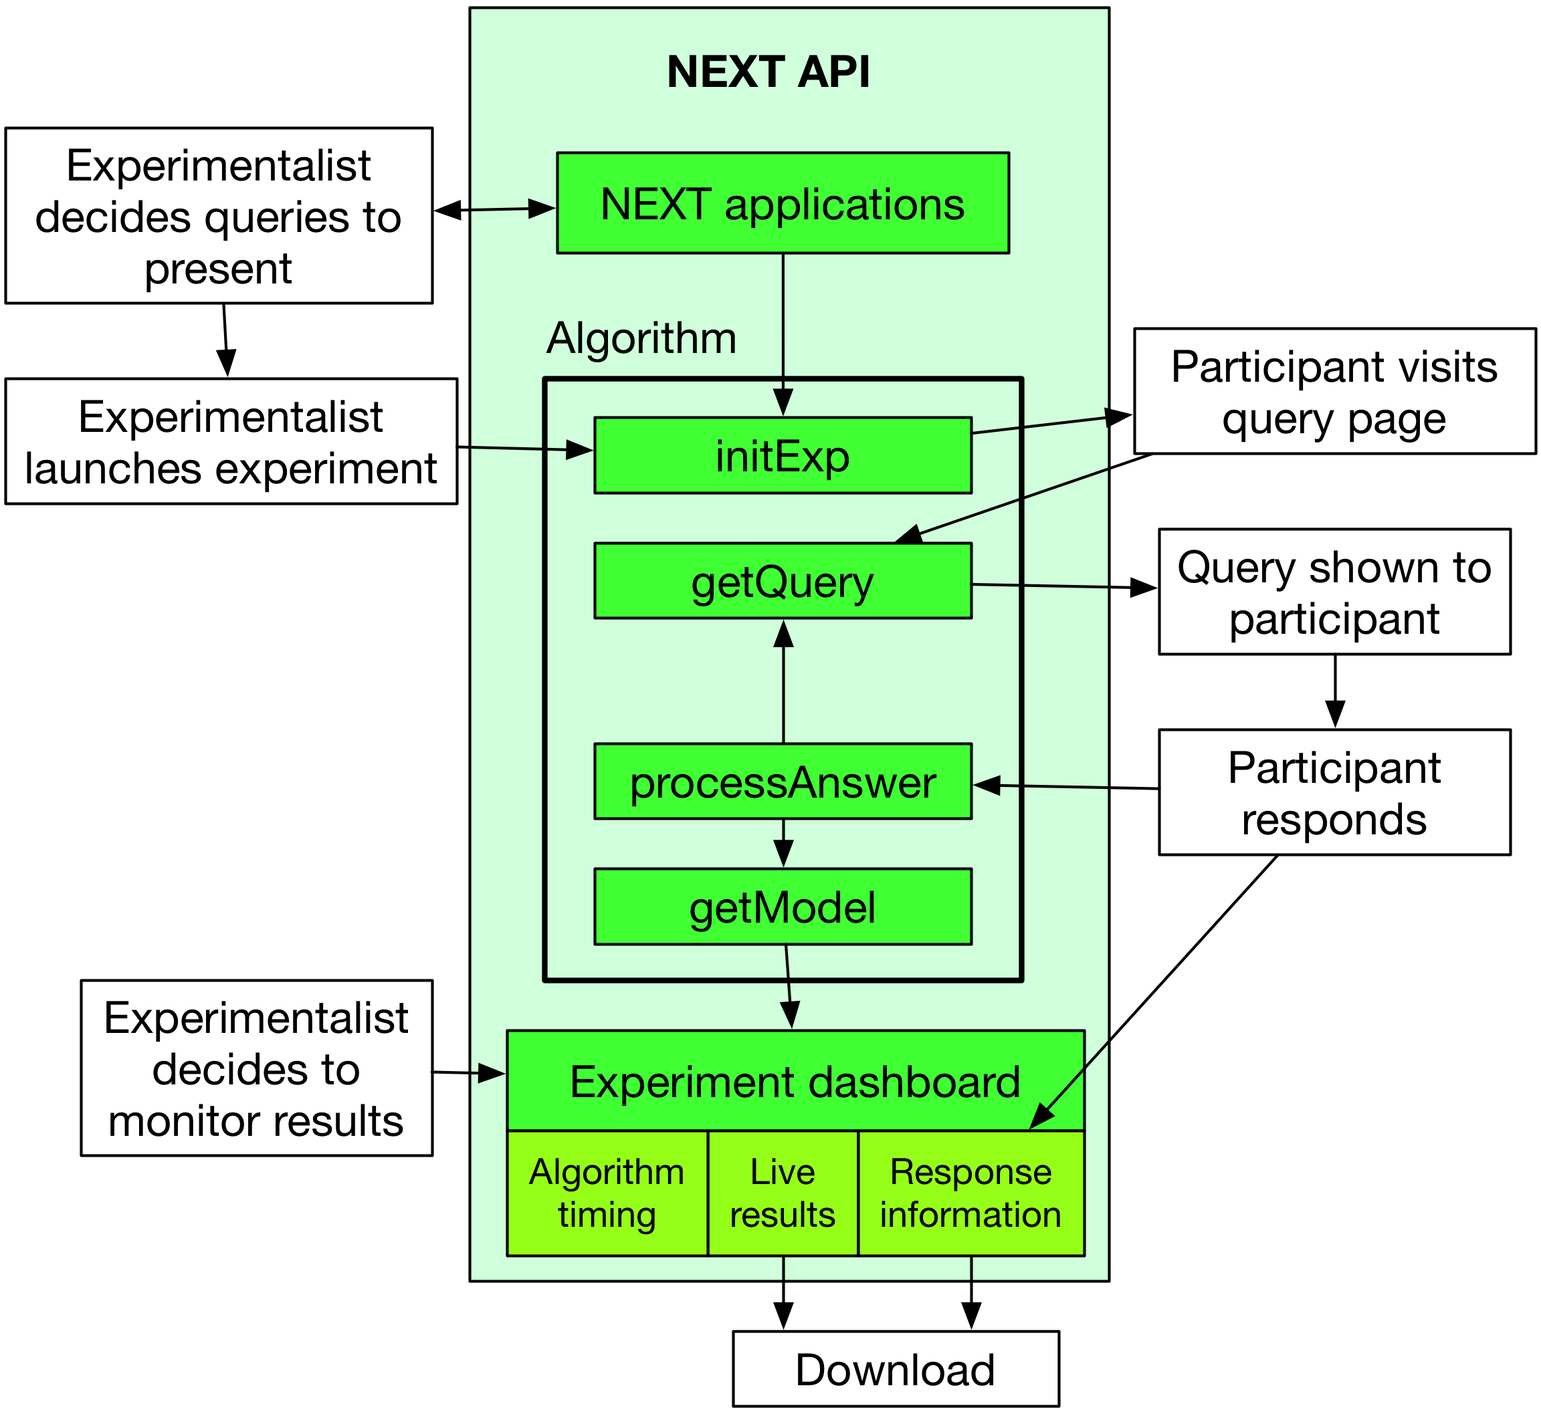
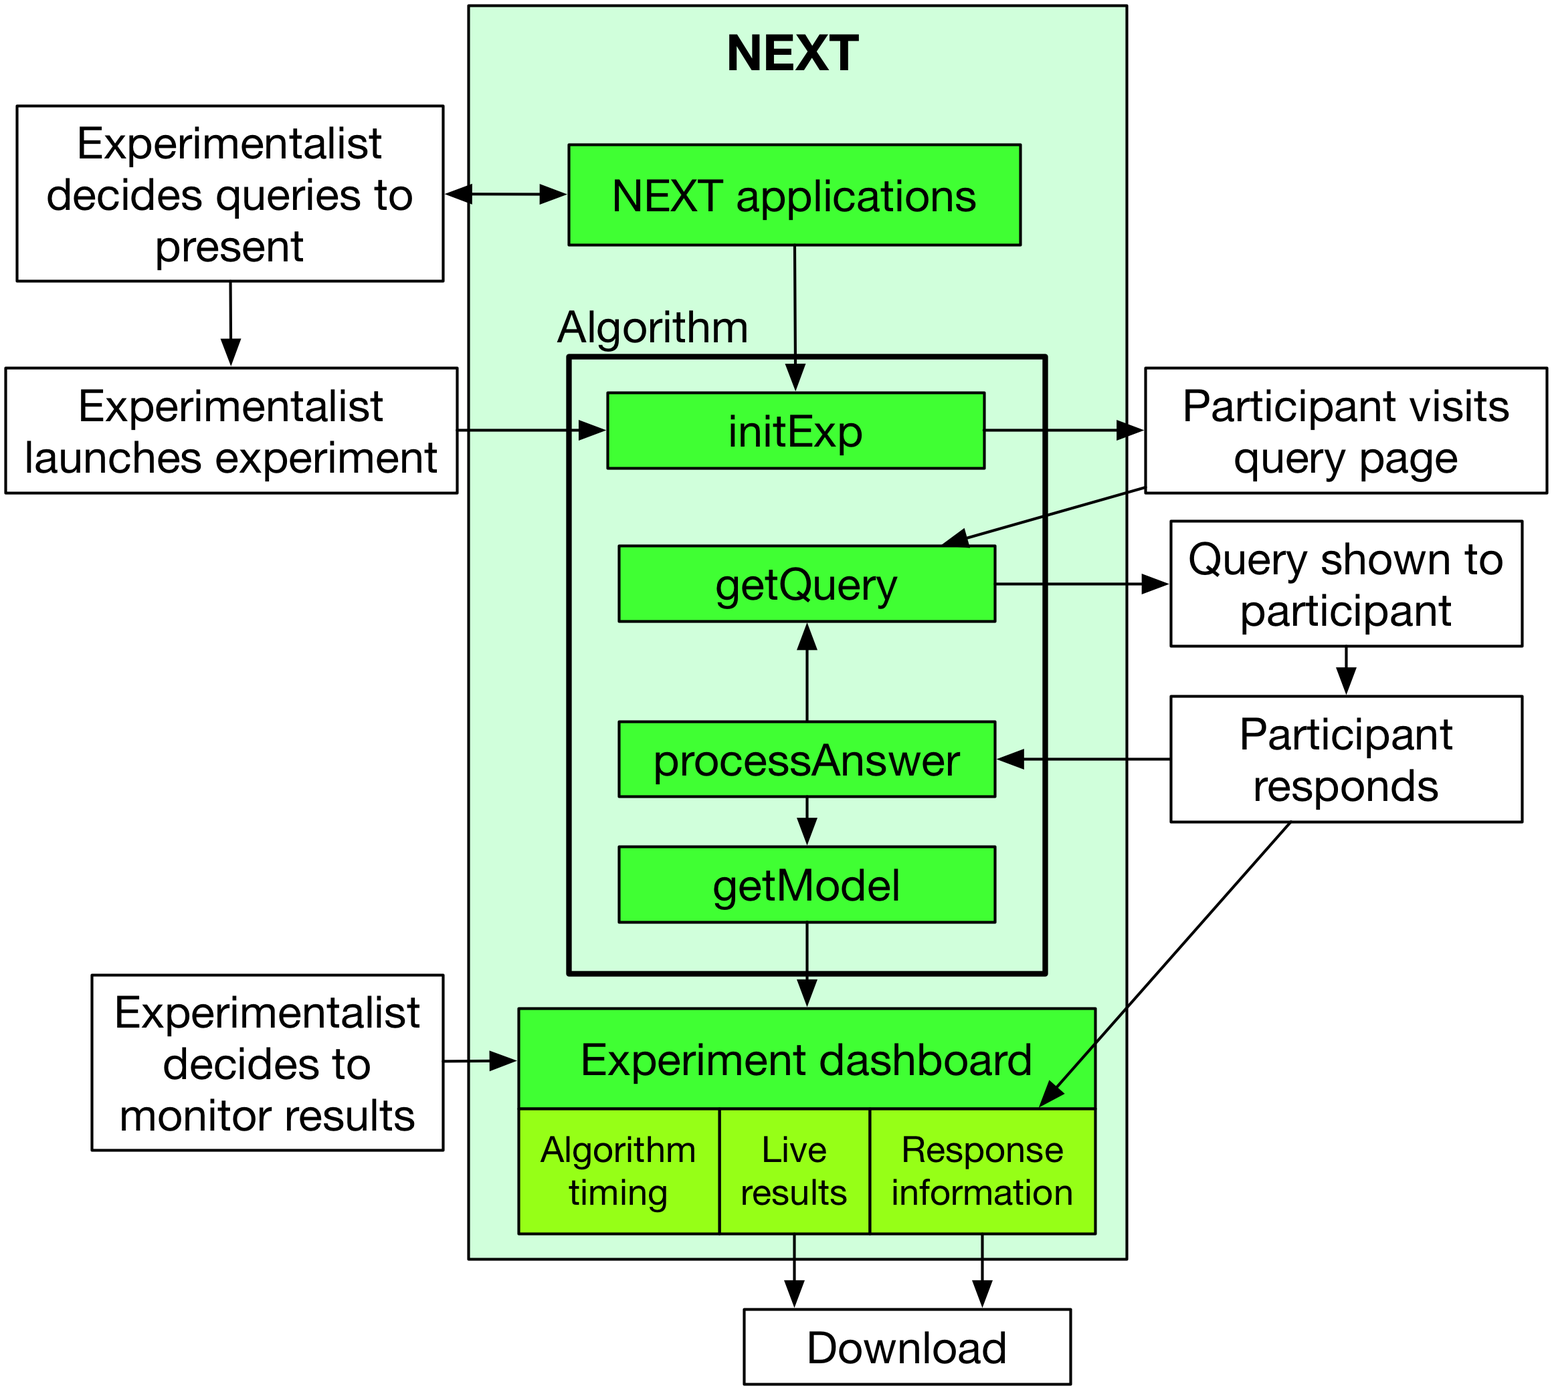
Address sbenthall’s comments

Changed region(s): [[0.0, 0.0, 1.0, 1.0]]

diff --git a/papers/scott_sievert/next.rst b/papers/scott_sievert/next.rst
@@ -110,31 +110,32 @@ Introduction
 The ubiquitousness of the Internet has enabled crowdsourcing, which gives fast
 access to unprecedented amounts of human judgment data.  Tapping into the
 "wisdom of the crowd" includes scenarios where questions are asked about simple
-cognitive tasks. For example, users may be asked to determine the locations in
-an image that contain a certain object (e.g., "select all image locations that
-contain buildings") to protect against internet bots. This task is trivial for
-a human but difficult a computer (or internet bots).
+cognitive tasks, and crowdsourcing has enabled the collection of many such
+judgments. For example, crowdsourcing participants have been asked to
+determine the locations in an image that contain a certain object (e.g.,
+"select all image locations that contain buildings") on many different images
+:cite:`deng2009imagenet`.
 
-Crowdsourcing enables the collection of a large amount of data, which is
-necessary to extract complex results from simple human judgments. One such
-example finds some measure of shoe similarity between different shoes
-:cite:`heim2015active`. A complex model is required given a low working memory
-constraint. Many responses are needed for this complex model, even though a
-small fraction of the available shoes are used (less that 0.2%).
+.. comment
+    Crowdsourcing enables the collection of many simple human judgments. Uses
+    include finding the best item in some set :cite:`audibert2010best` or finding
+    some measure of similarity between different objects :cite:`heim2015active`.
+    Typically, many responses are required as judgments must be simple for humans
+    to answer.
 
 The cost of collecting crowdsourcing responses can be significant – especially
 in problem domains where expert input is required. Minimizing the number of
-queries required has large practical benefits: higher accuracy with
-fewer responses, and ultimately a shorter time to a particular result.  To
-obtain these benefits, a fundamental change in the method of data collection is
+queries required has large practical benefits: higher accuracy with fewer
+responses, and ultimately a shorter time to a particular result.  To obtain
+these benefits, a fundamental change in the method of data collection is
 required.
 
-At UW–Madison, we have developed a crowdsourcing data collection and analysis
-tool that efficiently collects crowdsourced data :cite:`jamieson2015next`. In
-this paper, we will explain the fundamental challenges that this system
-addresses before explaining the system usage and API. We will mention primary
-design goals of NEXT, which include experiment monitoring and being accessible
-to researchers.
+At UW–Madison, we have developed a crowdsourcing data collection tool that
+efficiently collects crowdsourced data via "adaptive" sampling algorithms
+:cite:`jamieson2015next`. In this paper, we will focus on the use of NEXT
+rather than the applications of NEXT and their results. We will address the
+interface NEXT presents to the experimentalist and algorithm designer, after
+mentioning the fundamental problem NEXT addresses and it's applications.
 
 Problem statement
 -----------------
@@ -168,35 +169,48 @@ Problem statement
     adaptive algorithms to reach a particular quality (e.g., classification
     accuracy). :label:`adaptive-gains`
 
-The standard machine learning workflow is to obtain human labels, then to
-produce a model that predicts labels. An example of this workflow is with the
-popular ImageNet dataset :cite:`deng2009imagenet`: humans have provided
-millions of image labels, and there have been dozens of models to predict
-labels for unseen images :cite:`szegedy2015going, he2015delving,
+Supervised machine learning relies on human labels to help produce a model that
+predicts labels :cite:`kotsiantis2007supervised`. One example of this workflow
+is with the popular ImageNet dataset :cite:`deng2009imagenet`: humans have
+provided millions of image labels, and there have been dozens of models to
+predict labels for unseen images :cite:`szegedy2015going, he2015delving,
 simonyan2014very`.
 
 The collection of these data is `passive` and does not `adapt` to previous
 responses: previous responses does not effect which queries are presented.
-Adaptive data collection is a process which selects the most useful data as
-quickly as possible to help achieve some goal (e.g., classification accuracy).
+Adaptive data collection is a process which selects the most useful data (in
+some sense) as quickly as possible to help achieve some goal (e.g.,
+classification accuracy) :cite:`holland1992adaptation`.  Adaptive data
+collection is done by an adaptive sampling algorithm that chooses the next
+query to be labeled.
 
-Adaptive data collection naturally requires fewer responses to produce the
-same model as passive data collection: it's adapting to previous responses by
-choosing which query to present next. This is most useful as the problem size
-increases, or when there are many data to label (e.g., different sorting
-algorithms). Adaptive algorithms do not require more responses than passive
-algorithms :cite:`castro2005faster`. A clearer depiction of these gains is
-shown in Figure :ref:`adaptive-gains`.
+Adaptive data collection naturally requires fewer responses to produce the same
+model as passive data collection: it's adapting to previous responses by
+choosing which query to present next. This is most useful when many labels are
+needed, or as problem size increases. Adaptive algorithms do not require more
+responses than passive algorithms :cite:`castro2005faster`. A clearer depiction
+of these gains is shown in Figure :ref:`adaptive-gains`.
 
-Adaptively collecting large-scale datasets is challenging and time-consuming.
-As such, most experiments on adaptive sampling algorithms are simulations that
-use these passively collected datasets. These simulations do not address the
-practical issues faced in crowdsourcing: adaptive algorithm response time,
-human fatigue and differing label quality among humans.
+Applying adaptive data collection to crowdsourcing will reduce the number of
+samples required. The simple judgments humans can provide require many
+responses. A simple example is with using comparisons of two items to sort a
+list of :math:`n` items. An adaptive algorithm require :math:`O(n\log n)`
+comparisons on average while passive algorithms require :math:`O(n^2)`
+comparisons :cite:`hoare1962quicksort`.
 
+Adaptively collecting large-scale datasets is challenging and time-consuming,
+as mentioned below.  As such, most experiments on adaptive sampling algorithms
+are simulations that use these passively collected datasets. These simulations
+do not address the practical issues faced in crowdsourcing: adaptive algorithm
+response time, human fatigue and differing label quality among humans.
+
+The problem that needs to be solved is to allow arbitrary adaptive algorithms
+to collect crowdsourced data.
+
+An additional problem is the use of adaptive algorithms by experimentalists.
 Arguably, some of the deepest insights and greatest innovations have come
-through experimentation. This is only possible if adaptive data
-collection is easily accessible by both
+through experimentation. This is only possible if adaptive data collection is
+easily accessible by both
 
 1. Machine learning researchers, to test and deploy adaptive algorithms
 2. Experimentalists, to use and test adaptive algorithms in real-world applications
@@ -205,20 +219,19 @@ Easy use by both groups will enable feedback between experimentalists and
 machine learning researchers to improve adaptive data collection through
 crowdsourcing.
 
-
 Challenges
 ^^^^^^^^^^
 
 Adaptive data collection is not possible without access to previous responses,
 a fundamental change to data collection. This introduces human feedback: the
-most useful queries are selected by using the existing human labels. If a
-particular query has shown to be of little use, it doesn't make much sense to
-label the same query again.
+most useful queries are selected using previously recorded human labels by some
+adaptive algorithm. If a particular query has shown to be of little use, it
+doesn't make much sense to label the same query again.
 
 Adaptive algorithms use previous responses to ask questions, which means that
 they require
 
-* receiving and storing previous responses.
+* receiving and storing responses, and access to these stored responses.
 * delivering and selecting queries to be labeled.
 * updating some internal model (which selects queries to be presented).
 
@@ -230,15 +243,17 @@ requires a fundamentally different interaction flow as show in Figure
 Crowdsourcing adaptive data collection presents a variety of challenges in
 mathematics, systems and software development. These challenges stem from the
 storage and connection of responses to the adaptive sampling algorithm. Any
-such system needs to process, store and receive crowdsourcing responses, and
-this has served as a barrier to developing such a system.
+such system needs to process, store and receive crowdsourcing responses and
+work crowdsourcing scale, meaning the development and maintenance of such a
+system is involved. This has served as a barrier to developing such a system
+for mathematicians, and lack of knowledge on adaptive methods have hindered
+experimentalists.
 
 .. figure:: figures/data-flow.png
-    :scale: 50%
 
-    The data flow required to adaptively collect crowdsourcing data. The
-    computational backend is needed for processing the response, which may be
-    involved. :label:`data-flow`
+    The data flows required to collect crowdsourcing data both passively and
+    adaptively. The primary difference is adaptive data collection requires
+    using previous responses in some way. :label:`data-flow`
 
 One other system that addresses this challenge is the Microsoft Decision
 Service :cite:`agarwal2016multiworld`, which can effectively evaluate the
@@ -264,18 +279,32 @@ present `next`. NEXT provides
 * easy use and configuration by experimentalists in a wide variety of fields
   and disciplines
 
-Our initial goals have been successfully addressed; mathematicians have
-implemented new algorithms :cite:`jun2016anytime` and UW–Madison psychologists
-have independently used our system. NEXT has been used by the New Yorker and in
-the insurance industry. Various adaptive algorithms have been evaluated in the
-real world, and have shown gains as expected [#]_.
+Our design goals necessitate that NEXT be an end-to-end system that is easily
+accessible. It is a web interface that can be accessed by both experimentalists
+and crowdsourcing participants, and a Python interface for the algorithm
+developer. We explain use by experimentalists and algorithm developers in the
+following sections. A block diagram representation of our system is in Figure
+:ref:`block-diagram`.
 
+In use of NEXT, mathematicians have implemented new algorithms
+:cite:`jun2016anytime` and UW–Madison psychologists have independently used our
+system [#]_. NEXT has been used by the New Yorker and in the insurance
+industry. In at least one case, two adaptive algorithms have been evaluated in
+the real world and one required fewer samples as expected [#]_.
+
+.. [#] See http://concepts.psych.wisc.edu/index.php/next-tutorial/
 .. [#] With contest 559 of The New Yorker Cartoon Caption contest
 
 In our usage, the system remains responsive to participants even after
 receiving millions of responses from thousands of participants, at least with
 fast and simple algorithms. This is illustrated by the problem below, though
 it also illustrates other features.
+
+.. figure:: figures/block-diagram.png
+
+    When and how different users interact with NEXT. Arrows represent some form
+    of communication between different system components.
+    :label:`block-diagram`
 
 Applications of NEXT
 --------------------
@@ -389,8 +418,9 @@ NEXT Architecture
 
 The design goals of NEXT are to provide
 
-* convenient default `applications` (which serve different types of queries;
-  e.g., one application involves the rating of exactly one object)
+* convenient default `applications` (which handle different problem
+  formulations by serving different types of queries; e.g., one application
+  involves the rating of exactly one object)
 * straightforward and modular algorithm implementation
 * live experiment monitoring tools via a dashboard, which must update as
   responses are received and provide some sort of offline access
@@ -402,11 +432,6 @@ use cases seen by both algorithm developers and experimentalists [#]_.
 
 .. [#] Documentation can be found at https://github.com/nextml/NEXT/wiki
 
-.. figure:: figures/block-diagram.png
-
-    When and how different users interact with NEXT. Arrows represent some form
-    of communication between different system components.
-    :label:`block-diagram`
 
 
 Algorithm implementation
@@ -423,27 +448,38 @@ each algorithm:
 3. ``processAnswer``, which processes the human's answer
 4. ``getModel``, which gets the results and is shown on the dashboard
 
+These function handle various objects to displayed in each query (e.g., the
+New Yorker displays one text object in every query for a rating). By default,
+these objects or `target` are abstracted to an integer index (though the other
+information is still accessible). This means that a particular target is
+referred to only by index (e.g., the user is seeing target :math:`i`, not
+``foo.png``).
+
+All these functions are implemented in Python, and we provide easy access other
+tasks needed for adaptive algorithms (database access, background jobs).
+
 Arguments and returns
 """""""""""""""""""""
 
-These algorithms handle various objects to displayed in each query (e.g., the
-New Yorker displays one text object in every query for a rating). By default,
-these objects are abstracted to an integer identifier (though the other
-information is still accessible). That means these algorithms mirror the
-implementation in academic papers: objects are referred to by an integer index
-(i.e., object :math:`i`).
+We treat each algorithm as a black box -- NEXT only needs each algorithm
+function to accept and return specific values. These arguments and return
+values for all algorithm functions are specified exactly in a YAML-based
+schema. Every algorithm has to create a mapping from the specified inputs to
+the specified outputs.
 
-The arguments and return values for all algorithm functions are specified
-exactly in a YAML-based schema. Every algorithm has to create a mapping from
-the specified inputs to the specified outputs. This allows treating an
-algorithm like a black-box.
+NEXT verifies the inputs and output to/from algorithms and can also include a
+description of each parameter. This means that YAML schema is always up to date
+and is self-documenting. Changing this schema means different arguments are
+passed to every algorithm, and we offer flexibility by allowing arguments of
+any type to be passed (via ``type: any``).
 
 This schema depends on ``Algs.yaml`` (e.g., in
 ``apps/[application]/algs/Algs.yaml``) and contains four root level keys for
-each of ``initExp``, ``getQuery``, ``processAnswer``, and ``getModel``. Each one
-of these sections describes the input arguments and returns values by ``args``
-and ``rets`` respectively. These sections are filled with type specifications
-that describe the name and type of the various keyword arguments.
+each of ``initExp``, ``getQuery``, ``processAnswer``, and ``getModel``. Each
+one of these sections describes the input arguments and returns values by
+``args`` and ``rets`` respectively. These sections are filled with type
+specifications that describe the name and type of the various keyword
+arguments.
 
 For example, a particular ``Algs.yaml`` may include
 
@@ -478,11 +514,13 @@ Database access
 We provide a simple database wrapper, as algorithms need to store different
 values (e.g., the number of targets, a list of target scores). We provide a
 variety of atomic database operations through a thin wrappers to PyMongo [#]_
-and Redis [#]_.  Each "collection" in this wrapper mirrors a Python dictionary and
-has several other atomic database operations. We provide
+and Redis [#]_, though we can support arbitrary databases [#]_.  Each "collection"
+in this wrapper mirrors a Python dictionary and has several other atomic
+database operations. We provide
 
 .. [#] http://api.mongodb.com/python/current
 .. [#] https://redis.io/
+.. [#] Which requires implementation of the Collection API found in ``next.apps.Butler``
 
 * ``get``, ``set`` and ``{get, set}_many`` which provide atomic operations to
   store values in the database
@@ -493,20 +531,23 @@ has several other atomic database operations. We provide
 All these operations are atomic, and can be accessed through an interface
 called ``butler`` which contains multiple collections. The primary collection
 used by algorithms (``butler.algorithms``) is specific to each algorithm and
-allows for independent evaulation of different algorithms (though other
+allows for independent evaluation of different algorithms (though other
 collections are available). The arguments to an algorithm function are
 ``butler`` followed by the values in the schema.
 
 Example
 """""""
 
+This example illustrates the interface we have created for the algorithm
+developer. It provides an example of algorithm implementation. After
+implementation, this algorithm can receive crowdsourcing responses through the
+web interface.
+
 .. code-block:: python
 
     import numpy as np
 
     def choose_target(butler):
-        """ butler provides interface to store
-            and save data """
         # Adaptive sampling hidden for brevity
         n = butler.algorithms.get(key='n')
         return np.random.choice(n)
@@ -579,7 +620,7 @@ The ``Algs.yaml`` file for this algorithm would be
         description: The scores for each target ordered
                      by target_id.
         values:
-          description: The score for a particular target
+          description: The mean score for a particular target
           type: num
 
 Experiment dashboards
@@ -605,6 +646,9 @@ delay (time taken for NEXT to respond to request), a measure of system
 responsiveness. An example is shown in Figure :ref:`histograms`. These
 dashboards also include timing information for algorithm functions, a useful
 debugging tool for the algorithm developer.
+
+From the dashboard, we support the download of both experiment results and
+participant response information.
 
 .. figure:: figures/histograms.png
 
@@ -679,11 +723,19 @@ the images involved in each query). We support several different formats for
 this ZIP file so images, text and arbitrary URLs can be supported. If images
 are included in this ZIP file, we upload all images to Amazon S3.
 
+Experimentalist use with crowdsourcing
+""""""""""""""""""""""""""""""""""""""
+
+After experiment launch, a link to the experiment dashboard and query page is
+presented. We recommend distributing this query page link to crowdsourcing
+participants, which typically happens via Mechanical Turk or email.
+
+
 Experiment persistence
 """"""""""""""""""""""
 
-We support saving and restoring experiments on the experiment list at ``/dashboard/experiment_list``.
-This allows experiment persistence even when
+We support saving and restoring experiments on the experiment list at
+``/dashboard/experiment_list``.  This allows experiment persistence even when
 Amazon EC2 machines are terminated.
 
 
@@ -691,12 +743,13 @@ Conclusion
 ----------
 
 At UW–Madison, we have created a system that is connecting useful adaptive
-algorithms with crowdsourced data collection. This system has been widely used
-by experimentalists in a wide variety of disciplines from the social sciences
-to engineering to efficiently collect crowdsourced data; in effect,
-accelerating research by decreasing the time to obtain results. The development
-of this system is modular: sampling algorithms are treated as black boxes, and
-this system is accessible with other interfaces. NEXT provides useful
-experiment monitoring tools that update as responses are received. This system
-has shown to be cost effective in bringing decision making tools to new
+algorithms with crowdsourced data collection. This system has been successfully
+used by experimentalists in a wide variety of disciplines from the social
+sciences to engineering to efficiently collect crowdsourced data; in effect,
+accelerating research by decreasing the time to obtain results.
+
+The development of this system is modular: sampling algorithms are treated as
+black boxes, and this system is accessible with other interfaces. NEXT provides
+useful experiment monitoring tools that update as responses are received. This
+system has shown to be cost effective in bringing decision making tools to new
 applications in both the private and public sectors.
